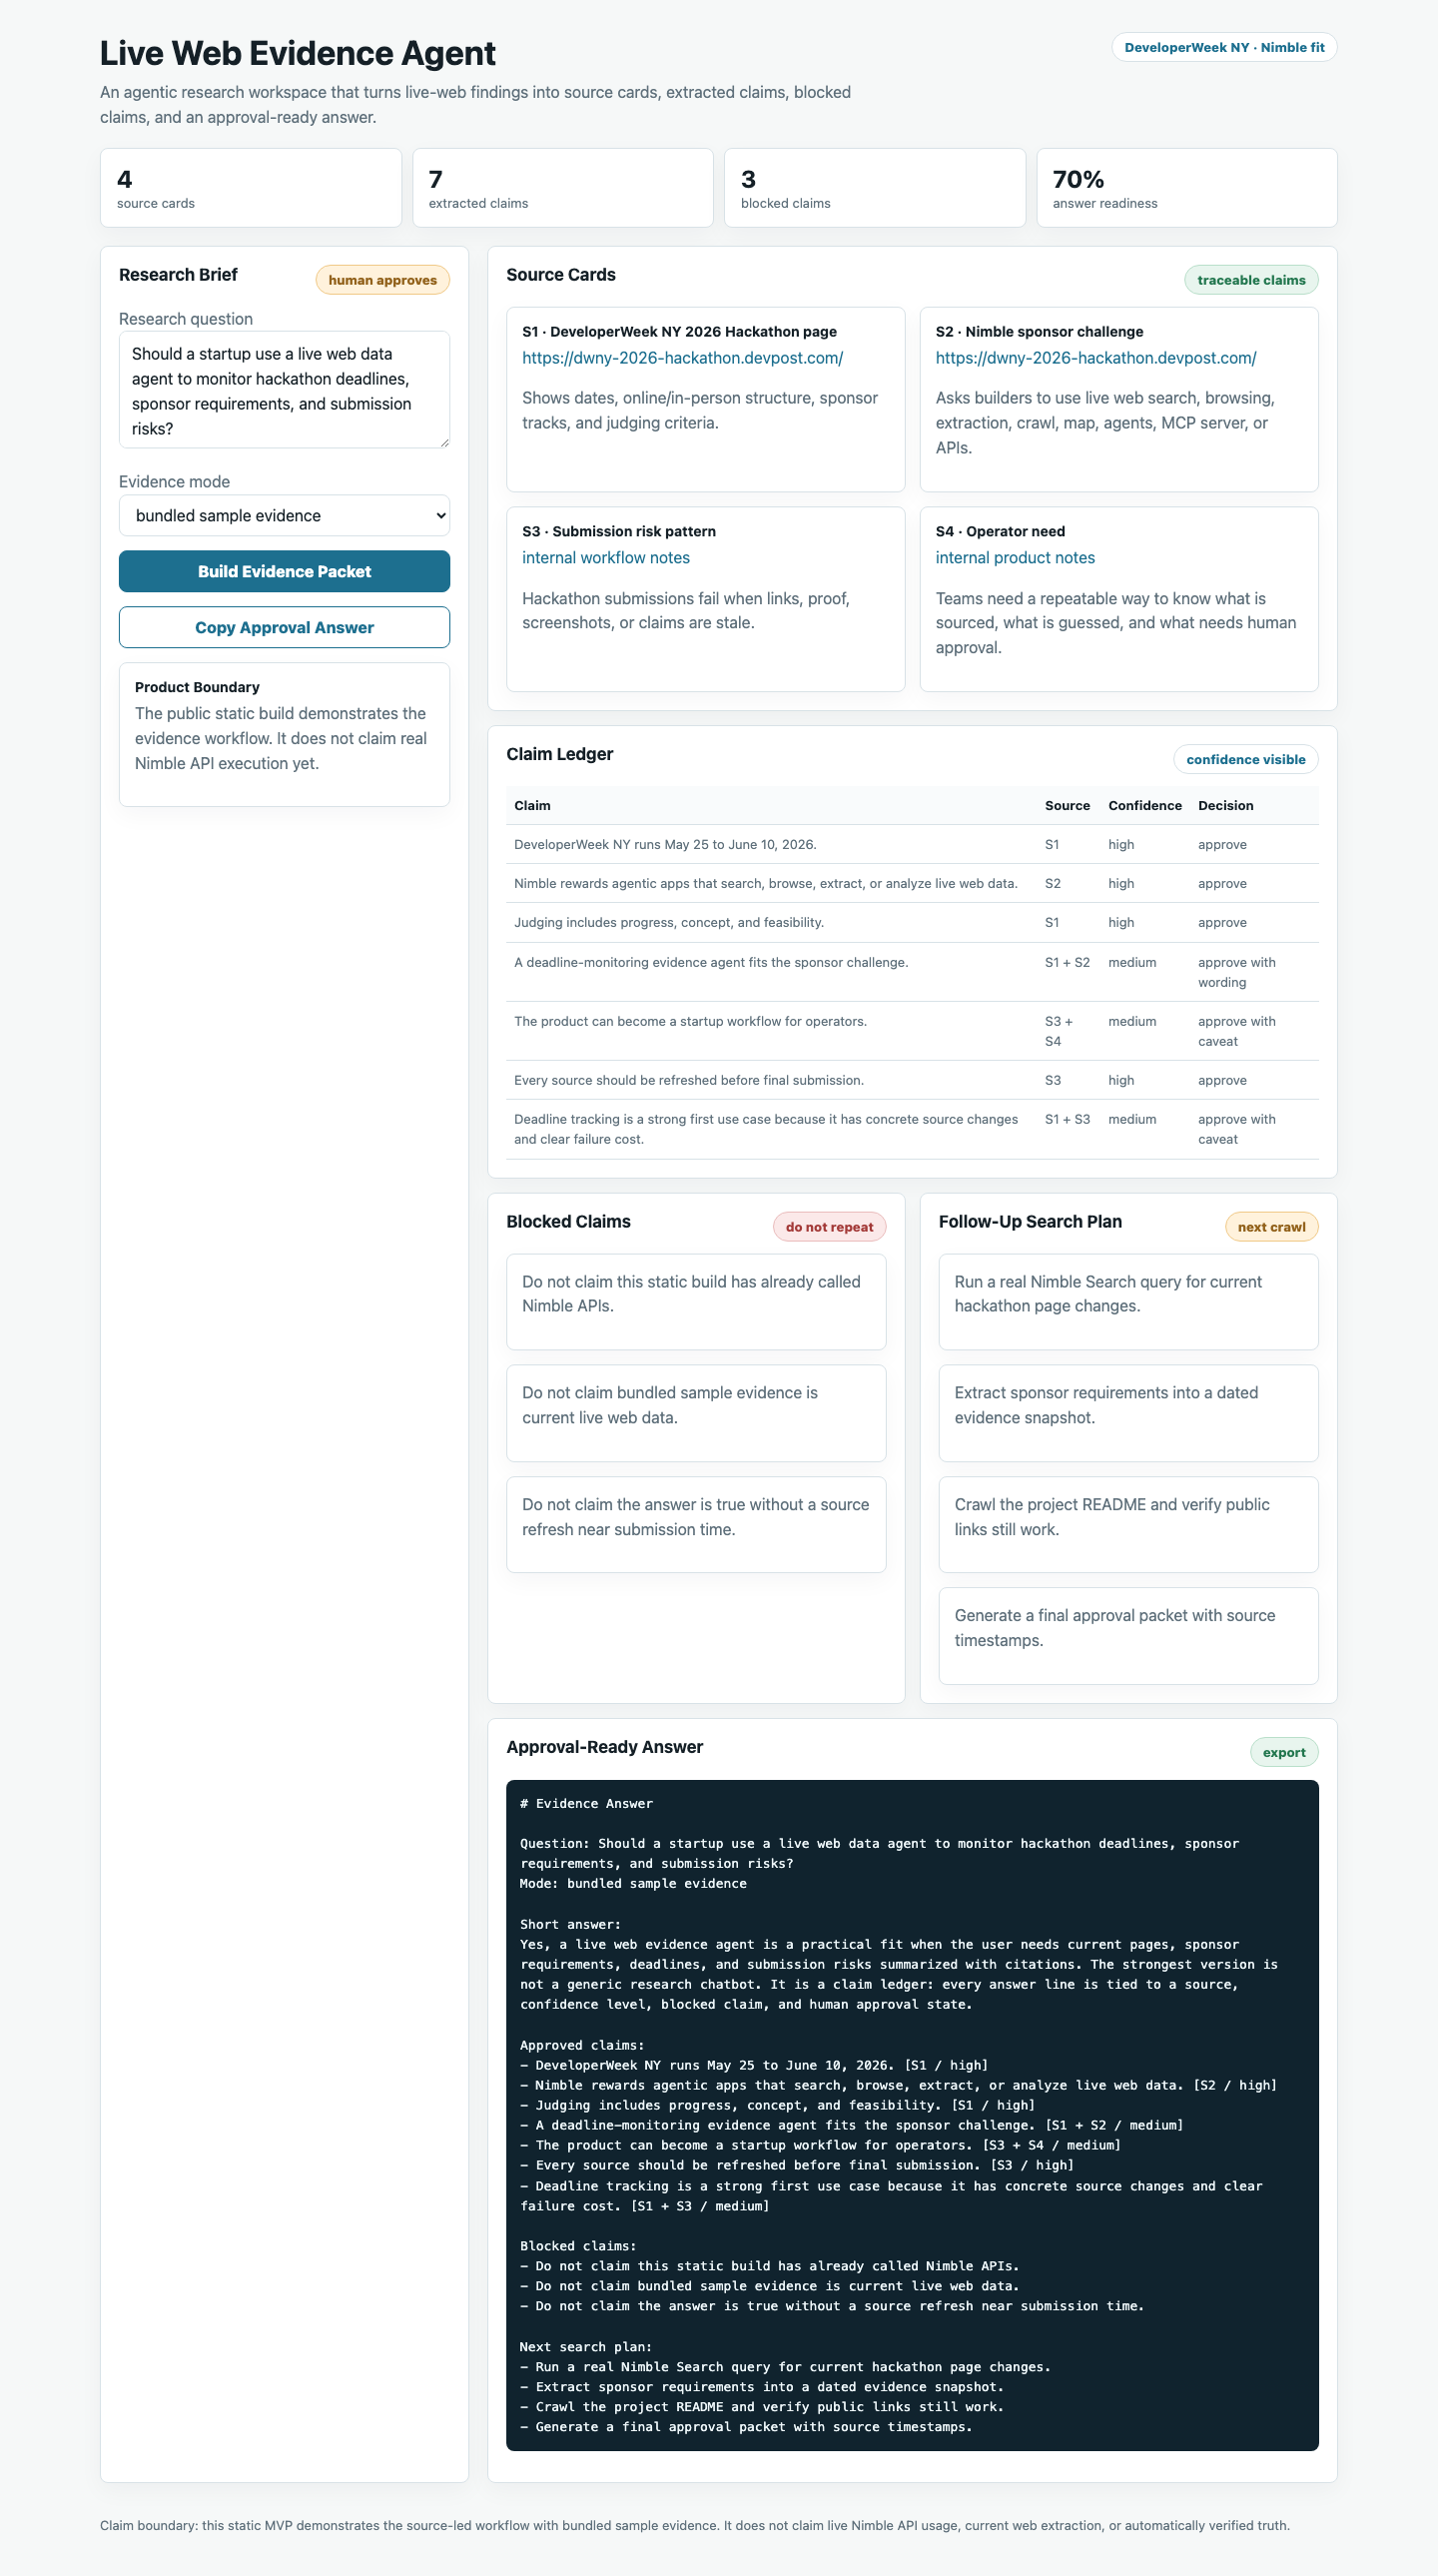
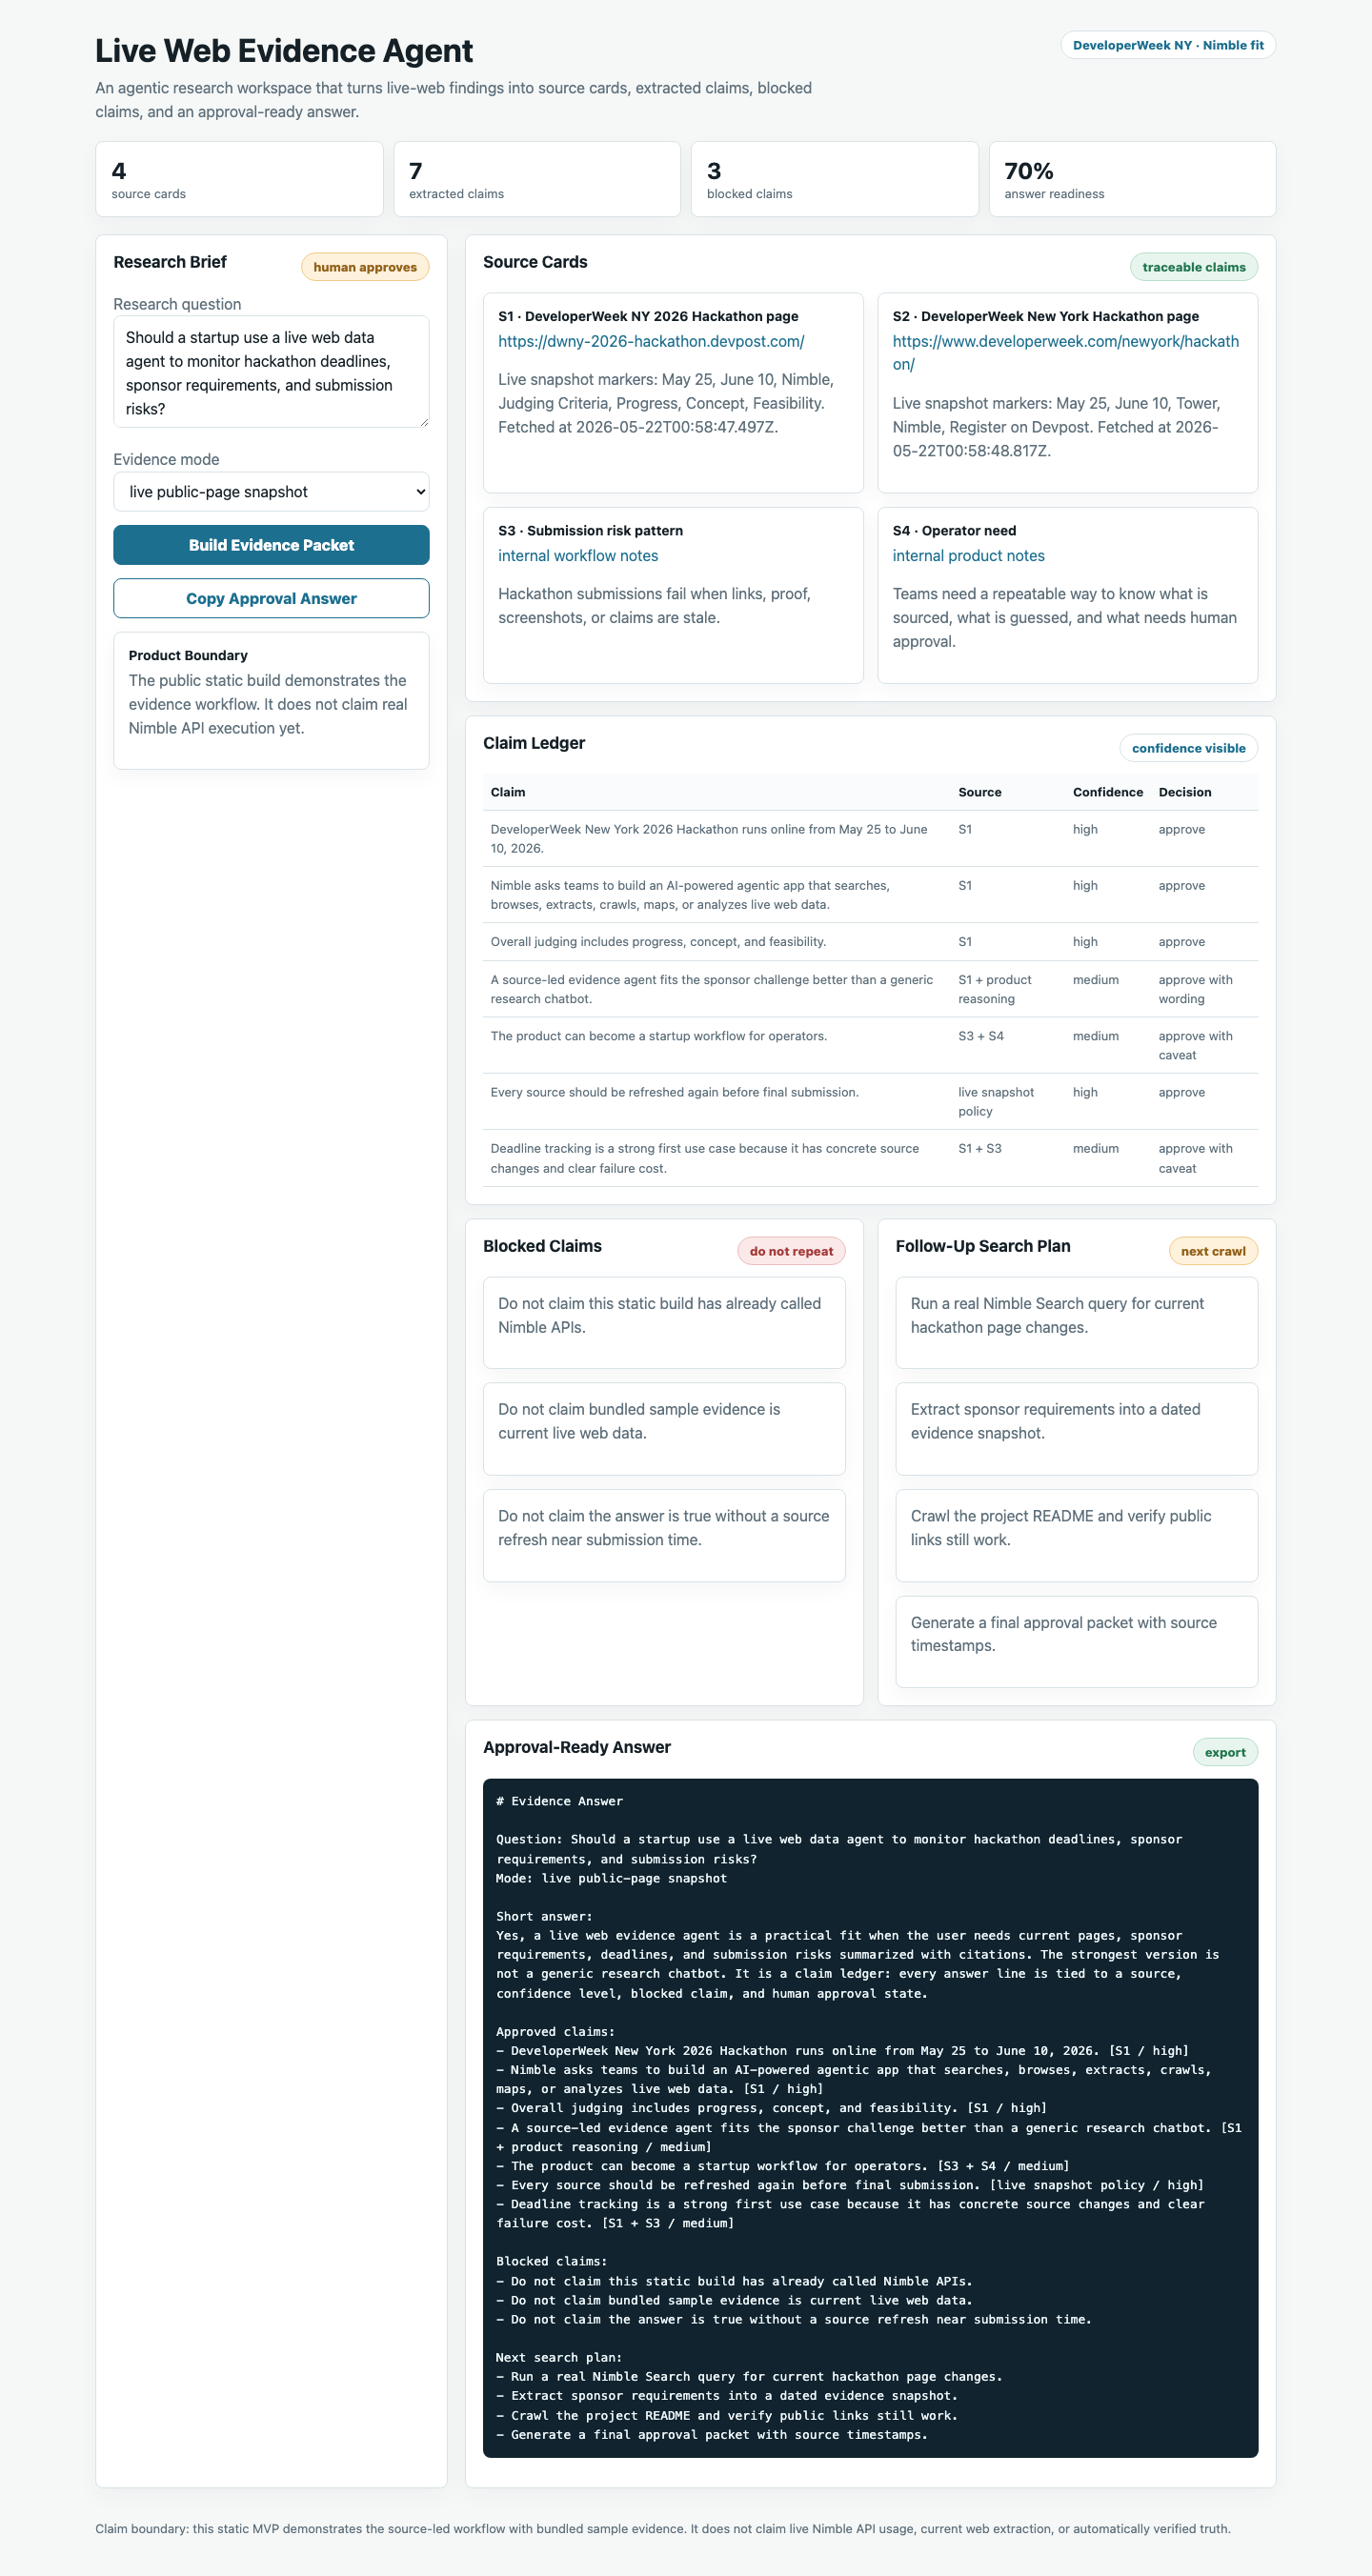
Add live public source snapshot workflow

diff --git a/index.html b/index.html
@@ -160,7 +160,8 @@
         <label>
           Evidence mode
           <select id="mode">
-            <option selected>bundled sample evidence</option>
+            <option selected>live public-page snapshot</option>
+            <option>bundled sample evidence</option>
             <option>live Nimble search planned</option>
             <option>internal source packet</option>
           </select>
@@ -231,7 +232,7 @@
   </main>
 
   <script>
-    const sources = [
+    const fallbackSources = [
       {
         id: 'S1',
         title: 'DeveloperWeek NY 2026 Hackathon page',
@@ -258,7 +259,7 @@
       }
     ];
 
-    const baseClaims = [
+    const fallbackClaims = [
       ['DeveloperWeek NY runs May 25 to June 10, 2026.', 'S1', 'high', 'approve'],
       ['Nimble rewards agentic apps that search, browse, extract, or analyze live web data.', 'S2', 'high', 'approve'],
       ['Judging includes progress, concept, and feasibility.', 'S1', 'high', 'approve'],
@@ -281,6 +282,7 @@
     ];
 
     const $ = (id) => document.getElementById(id);
+    let evidenceSnapshot = null;
 
     function escapeHtml(value) {
       return value.replace(/[&<>"']/g, (char) => ({
@@ -292,11 +294,44 @@
       }[char]));
     }
 
+    async function loadSnapshot() {
+      try {
+        const response = await fetch('data/evidence_snapshot.json', { cache: 'no-store' });
+        if (!response.ok) return null;
+        return response.json();
+      } catch {
+        return null;
+      }
+    }
+
+    function snapshotSources(snapshot) {
+      if (!snapshot || !Array.isArray(snapshot.sources)) return fallbackSources;
+      const sourceCards = snapshot.sources.map((source) => ({
+        id: source.id,
+        title: source.title,
+        url: source.url,
+        note: source.snippets?.length
+          ? `Live snapshot markers: ${source.snippets.map((item) => item.marker).join(', ')}. Fetched at ${source.fetched_at}.`
+          : `Fetched at ${source.fetched_at}`
+      }));
+      return sourceCards.concat(fallbackSources.filter((source) => source.id === 'S3' || source.id === 'S4'));
+    }
+
+    function snapshotClaims(snapshot) {
+      if (!snapshot || !Array.isArray(snapshot.claims)) return fallbackClaims;
+      const liveClaims = snapshot.claims.map((claim) => [claim.text, claim.source, claim.confidence, claim.decision]);
+      return liveClaims.concat([
+        ['The product can become a startup workflow for operators.', 'S3 + S4', 'medium', 'approve with caveat'],
+        ['Every source should be refreshed again before final submission.', 'live snapshot policy', 'high', 'approve']
+      ]);
+    }
+
     function buildPacket() {
       const question = $('question').value.trim() || 'No question provided.';
       const mode = $('mode').value;
-      const claims = baseClaims.slice();
-      if (question.toLowerCase().includes('deadline')) {
+      const sources = snapshotSources(evidenceSnapshot);
+      const claims = snapshotClaims(evidenceSnapshot);
+      if (question.toLowerCase().includes('deadline') && !claims.some((claim) => claim[0].startsWith('Deadline tracking'))) {
         claims.push(['Deadline tracking is a strong first use case because it has concrete source changes and clear failure cost.', 'S1 + S3', 'medium', 'approve with caveat']);
       }
       const readiness = Math.round((claims.filter((claim) => claim[3].startsWith('approve')).length / (claims.length + blocked.length)) * 100);
@@ -354,8 +389,10 @@ ${packet.followUps.map((item) => `- ${item}`).join('\n')}`;
       $('copyBtn').textContent = 'Copied';
       setTimeout(() => { $('copyBtn').textContent = 'Copy Approval Answer'; }, 1200);
     });
-    render();
+    loadSnapshot().then((snapshot) => {
+      evidenceSnapshot = snapshot;
+      render();
+    });
   </script>
 </body>
 </html>
-

diff --git a/scripts/verify_claim_boundary.py b/scripts/verify_claim_boundary.py
@@ -4,7 +4,7 @@ ROOT = Path(__file__).resolve().parents[1]
 
 required = [
     "It does not claim real Nimble API usage yet.",
-    "It does not claim live extraction in the public static build.",
+    "It does not claim Nimble-powered live extraction in the public static build.",
     "does not claim live Nimble API usage",
 ]
 
@@ -14,4 +14,3 @@ if missing:
     raise SystemExit("missing claim boundary markers: " + ", ".join(missing))
 
 print("live_web_evidence_agent_claim_boundary_ok")
-

diff --git a/README.md b/README.md
@@ -11,7 +11,7 @@ It is built around a simple rule: AI can help search and summarize, but every us
 - Official Devpost: https://dwny-2026-hackathon.devpost.com/
 - Public repo: https://github.com/daideguchi/live-web-evidence-agent
 - Public app: https://daideguchi.github.io/live-web-evidence-agent/
-- Current data mode: bundled sample evidence and browser-side workflow
+- Current data mode: live public-page snapshot plus browser-side workflow
 - Final submission: not submitted
 
 ## Problem
@@ -36,7 +36,7 @@ The app is designed so a live web provider such as Nimble can feed the evidence 
 ## What It Does Not Claim
 
 - It does not claim real Nimble API usage yet.
-- It does not claim live extraction in the public static build.
+- It does not claim Nimble-powered live extraction in the public static build.
 - It does not claim that bundled sample evidence is current.
 - It does not replace human review.
 
@@ -50,6 +50,18 @@ open index.html
 
 ```bash
 npm run verify
+```
+
+Refresh the public source snapshot:
+
+```bash
+npm run refresh:sources
+```
+
+The snapshot is written to:
+
+```text
+data/evidence_snapshot.json
 ```
 
 ## Next

diff --git a/submission/devpost-draft.md b/submission/devpost-draft.md
@@ -23,7 +23,7 @@ The app turns a research question into:
 
 ## How I Built It
 
-The current public prototype is a static HTML/CSS/JavaScript app. It uses bundled sample evidence to demonstrate the core workflow clearly and safely.
+The current public prototype is a static HTML/CSS/JavaScript app. It includes a refresh script that fetches public DeveloperWeek pages and writes a dated evidence snapshot into `data/evidence_snapshot.json`, then the browser app turns that snapshot into source cards and claim rows.
 
 The intended sponsor integration is Nimble. The next version can connect Nimble Search, Extract, Crawl, Map, Web Search Agents, MCP server, or APIs to populate the same evidence table with live web data.
 
@@ -33,7 +33,7 @@ This fits the Nimble challenge because it is an agentic app designed around live
 
 ## Claim Boundary
 
-This static MVP does not claim live Nimble API usage yet. It demonstrates the workflow that live web data should feed.
+This static MVP does not claim live Nimble API usage yet. It demonstrates the workflow that live web data should feed, and it includes a public-page snapshot generator as the bridge toward the sponsor integration.
 
 ## What's Next
 